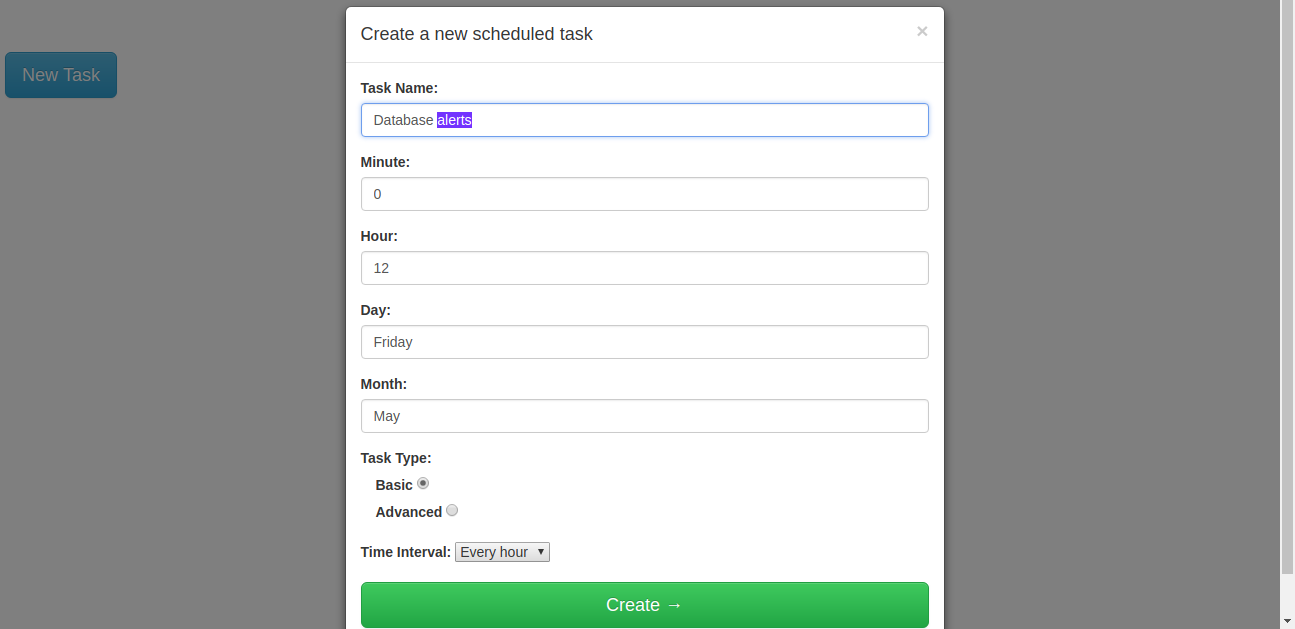
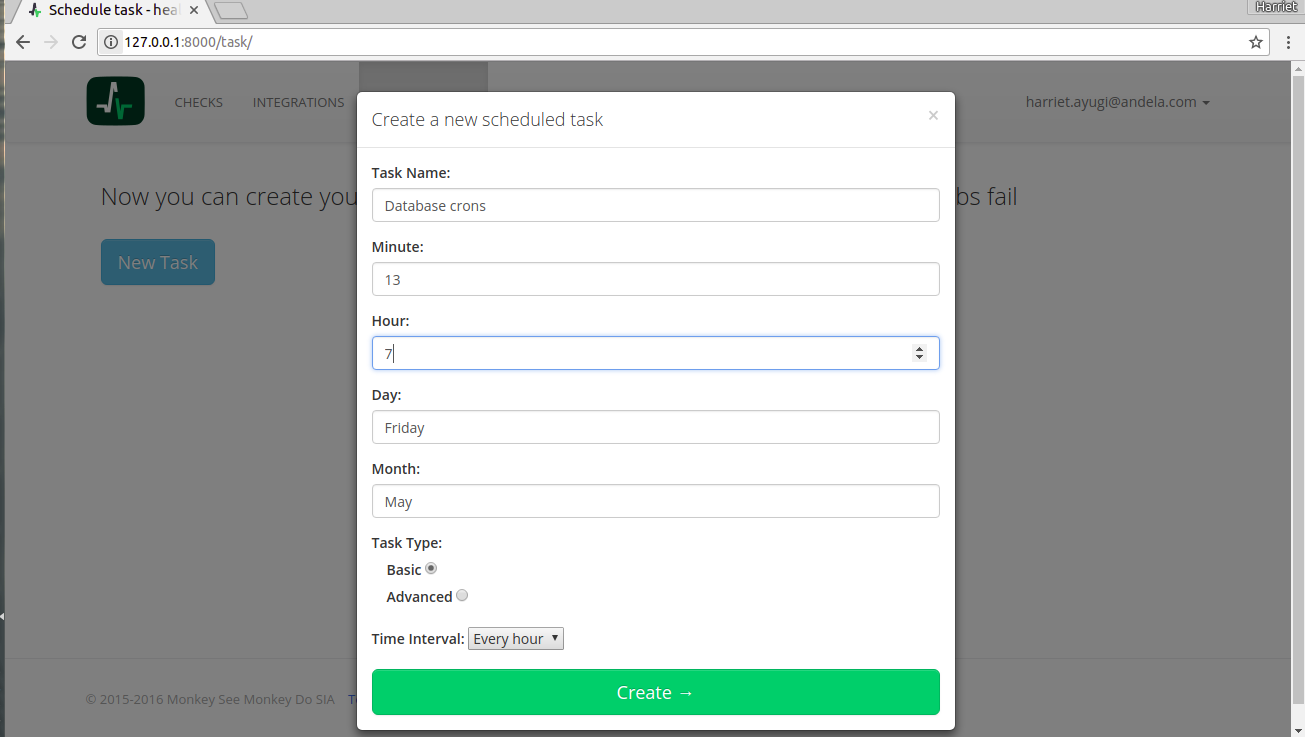
[feature #156577854] Create landing page rework.

diff --git a/templates/front/scheduled_task.html b/templates/front/scheduled_task.html
@@ -1,0 +1,81 @@
+{% extends "base.html" %} {% load compress staticfiles %} {% block title %}Schedule task - healthchecks.io{% endblock %}
+{% block content %}
+
+<div class="container">
+    <h3>
+    <p> Now you can create your scheduled Task and receive email alerts incase your jobs fail </p>
+    </h3> <br>
+    <div class="container-box rotated">
+        <button type="button" class="btn btn-info btn-lg turned-button" data-toggle="modal" data-target="#myModal">New Task</button>
+    </div>
+    <!-- Modal -->
+    <div id="myModal" class="modal fade" role="dialog">
+        <div class="modal-dialog">
+            <!-- Modal content-->
+            <div class="modal-content">
+                <div class="modal-header">
+                    <button type="button" class="close" data-dismiss="modal">&times;</button>
+                    <h4 class="modal-title">
+                        Create a new scheduled task
+                    </h4>
+                </div>
+                <div class="modal-body">
+                    <form role="form" method="post" id="reused_form">
+                        <div class="form-group">
+                            <label for="name"> Task Name:</label>
+                            <input type="text" class="form-control" id="name" name="name" required maxlength="50">
+                        </div>
+                        <div class="form-group">
+                            <label for="minute"> Minute:</label>
+                            <input type="number" class="form-control" id="minute" name="minute" value="0" required maxlength="2">
+                        </div>
+                        <div class="form-group">
+                            <label for="hour"> Hour:</label>
+                            <input type="number" class="form-control" id="hour" name="hour" value="12" required maxlength="2">
+                        </div>
+                        <div class="form-group">
+                            <label for="day"> Day:</label>
+                            <input type="text" class="form-control" id="day" name="day" value="Friday" required maxlength="15">
+                        </div>
+                        <div class="form-group">
+                            <label for="month"> Month:</label>
+                            <input type="text" class="form-control" id="day" name="day" value="May" required maxlength="15">
+                        </div>
+                        <div class="form-group">
+                            <label for="email"> Task Type:</label>
+                            <label class="container">Basic
+                                <input type="radio" checked="checked" name="radio">
+                                <span class="checkmark"></span>
+                            </label>
+                            <label class="container">Advanced
+                                <input type="radio" name="radio">
+                                <span class="checkmark"></span>
+                            </label>
+                        </div>
+                        <div class="form-group">
+                            <label for="time"> Time Interval:</label>
+                            <select>
+                                <option value="volvo">Every hour</option>
+                                <option value="saab">Every week</option>
+
+                            </select>
+
+                        </div>
+
+                        <button type="submit" class="btn btn-lg btn-success btn-block" id="btnContactUs">Create &rarr;</button>
+                    </form>
+                </div>
+            </div>
+        </div>
+    </div>
+</div>
+{% endblock %}
+
+{% block scripts %}
+{% compress js %}
+<script src="https://ajax.googleapis.com/ajax/libs/jquery/1.12.4/jquery.min.js"></script>
+<script src="https://maxcdn.bootstrapcdn.com/bootstrap/3.3.7/js/bootstrap.min.js" integrity="sha384-Tc5IQib027qvyjSMfHjOMaLkfuWVxZxUPnCJA7l2mCWNIpG9mGCD8wGNIcPD7Txa"
+    crossorigin="anonymous"></script>
+<script src="scheduled_task.js"></script>
+{% endcompress %}
+{% endblock %}

diff --git a/static/js/scheduled_task.js b/static/js/scheduled_task.js
@@ -1,0 +1,63 @@
+
+$(function()
+{
+    function after_form_submitted(data) 
+    {
+        if(data.result == 'success')
+        {
+            $('form#reused_form').hide();
+            $('#success_message').show();
+            $('#error_message').hide();
+        }
+        else
+        {
+            $('#error_message').append('<ul></ul>');
+
+            jQuery.each(data.errors,function(key,val)
+            {
+                $('#error_message ul').append('<li>'+key+':'+val+'</li>');
+            });
+            $('#success_message').hide();
+            $('#error_message').show();
+
+            //reverse the response on the button
+            $('button[type="button"]', $form).each(function()
+            {
+                $btn = $(this);
+                label = $btn.prop('orig_label');
+                if(label)
+                {
+                    $btn.prop('type','submit' ); 
+                    $btn.text(label);
+                    $btn.prop('orig_label','');
+                }
+            });
+            
+        }//else
+    }
+
+	$('#reused_form').submit(function(e)
+      {
+        e.preventDefault();
+
+        $form = $(this);
+        //show some response on the button
+        $('button[type="submit"]', $form).each(function()
+        {
+            $btn = $(this);
+            $btn.prop('type','button' ); 
+            $btn.prop('orig_label',$btn.text());
+            $btn.text('Sending ...');
+        });
+        
+
+                    $.ajax({
+                type: "POST",
+                url: 'handler.php',
+                data: $form.serialize(),
+                success: after_form_submitted,
+                dataType: 'json' 
+            });        
+        
+      });	
+});

diff --git a/templates/base.html b/templates/base.html
@@ -8,6 +8,8 @@
     <meta name="viewport" content="width=device-width, initial-scale=1">
 
     <link href='//fonts.googleapis.com/css?family=Open+Sans:400,300,600' rel='stylesheet' type='text/css'>
+    <link rel="stylesheet" href="https://maxcdn.bootstrapcdn.com/bootstrap/3.3.7/css/bootstrap.min.css">
+    <link rel="stylesheet" href="https://maxcdn.bootstrapcdn.com/bootstrap/3.3.7/css/bootstrap-theme.min.css">
     {% load compress staticfiles %}
     <link rel="icon" type="image/x-icon" href="{% static 'img/favicon.ico' %}">
 
@@ -81,11 +83,13 @@
                         <a href="{% url 'hc-channels' %}">Integrations</a>
                     </li>
 
+                    <li {% if page == 'task' %} class="active" {% endif %}>
+                            <a href="{% url 'hc-task' %}">Schedule Task</a>
+                    </li>
+
                 {% endif %}
 
-                <li>
-                        <a href="#">schedule Task</a>
-                    </li>
+               
 
 
                 {% if show_pricing %}

diff --git a/templates/front/welcome.html b/templates/front/welcome.html
@@ -17,9 +17,11 @@
                             you when your cron job doesn't run on time or it fails so you can sleep tight.</p>
                         <div class="clearfix">
                             <div class="form-button">
-                                <button href="{% url 'hc-login' %}" type="submit" class="btn btn-lg btn-primary pull-left">
+                                <a href="{% url 'hc-login' %}" >
+                                <button type="submit" class="btn btn-lg btn-primary pull-left">
                                     Get Started For Free
                                 </button>
+                                </a>
                             </div>
                         </div>
                         <div class="info">

diff --git a/templates/front/my_checks.html b/templates/front/my_checks.html
@@ -17,7 +17,8 @@
         <h4> 
             <ul style = list-style-type:none;>
             <li>
-            <a href="{% url 'hc-failed-checks' %}">Failed Checks</a>
+            <a href="{% url 'hc-failed-checks' %}">
+            <button>Failed Checks</button></a>
             </li>
             </ul>
         </h4>

diff --git a/hc/front/urls.py b/hc/front/urls.py
@@ -38,6 +38,7 @@ urlpatterns = [
     url(r'^docs/$', views.docs, name="hc-docs"),
     url(r'^docs/api/$', views.docs_api, name="hc-docs-api"),
     url(r'^about/$', views.about, name="hc-about"),
+    url(r'^task/$', views.schedule_task, name="hc-task"),
     url(r'^privacy/$', views.privacy, name="hc-privacy"),
     url(r'^terms/$', views.terms, name="hc-terms"),
 ]

diff --git a/hc/front/views.py b/hc/front/views.py
@@ -144,6 +144,9 @@ def docs_api(request):
 def about(request):
     return render(request, "front/about.html", {"page": "about"})
 
+def schedule_task(request):
+    return render(request, "front/scheduled_task.html", {"page": "task"})
+
 
 @login_required
 def add_check(request):
